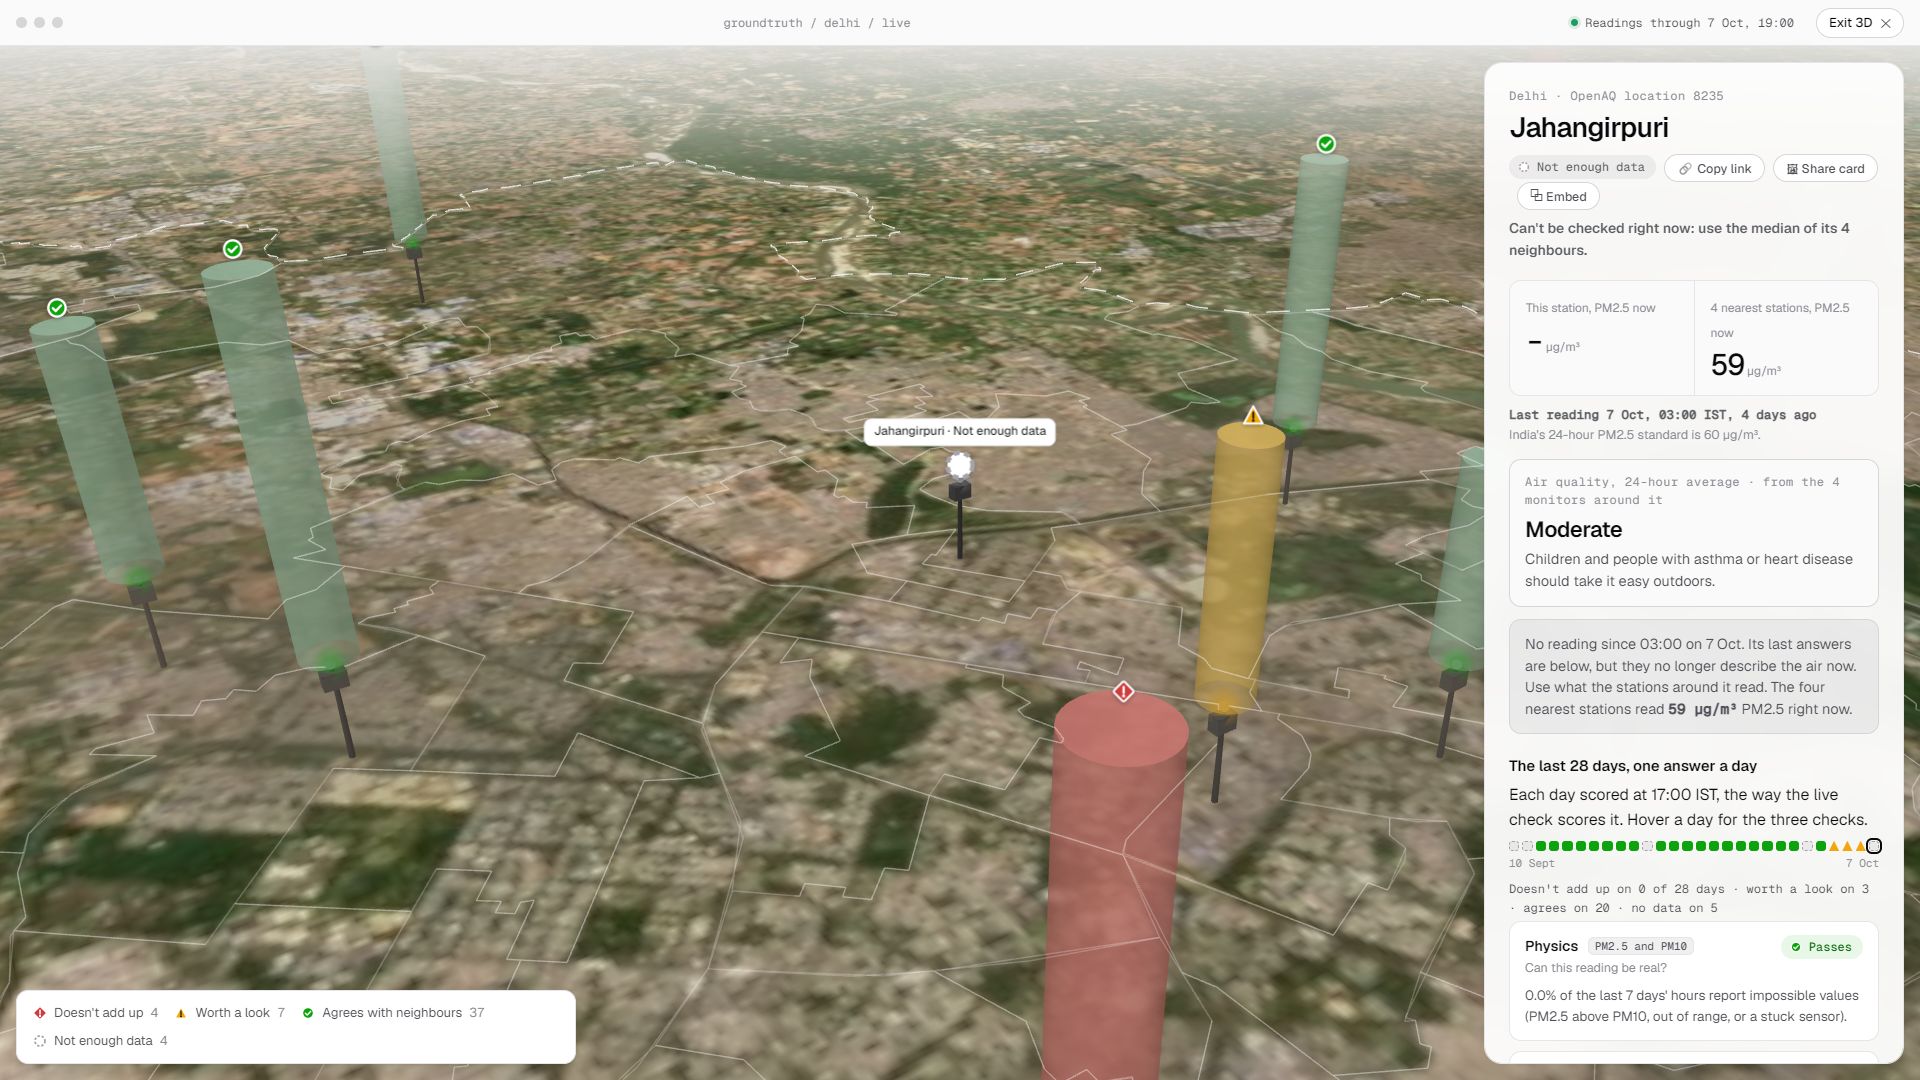
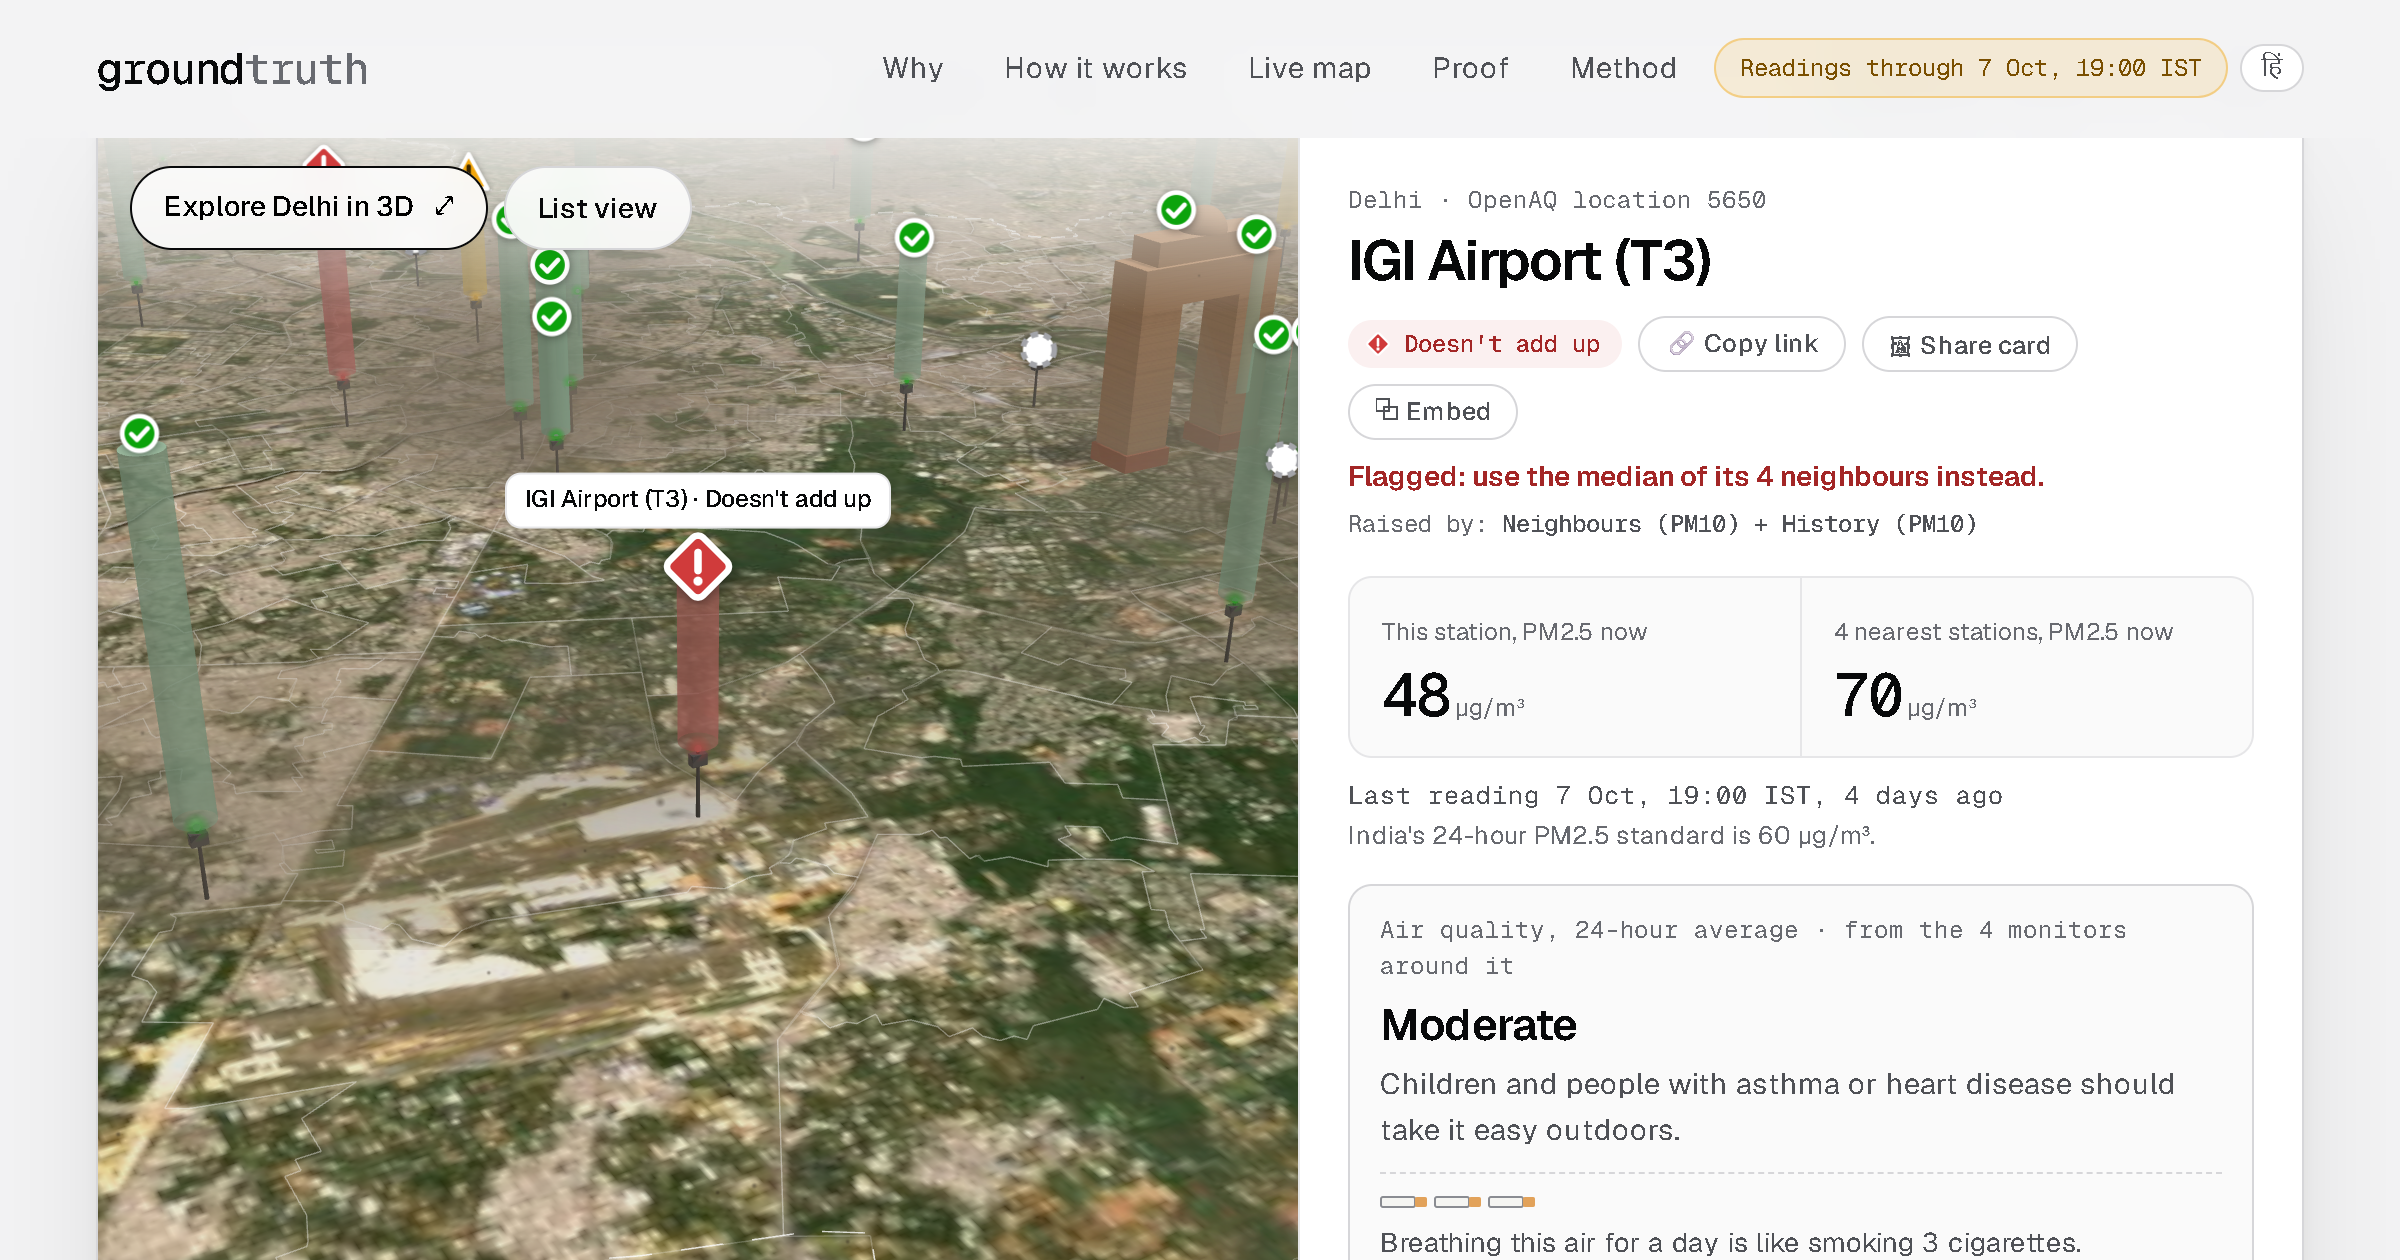
Blog pictures from today's live data: the home page, IGI Airport's panel, Fix these first
The old 3D close-up was flagged by Builder Center's image filter, and the
panel picture was a copy of it showing a monitor that has since gone silent.
blog-panel-list.png is a list-view backup with no 3D.

diff --git a/docs/BLOG.md b/docs/BLOG.md
@@ -18,7 +18,7 @@ They didn't stand out. Anand Vihar ranked 6th and Jahangirpuri 13th of 38. Anand
 
 That changed the product. We stopped trying to detect spraying, and built something that finds monitors whose numbers don't add up and shows the evidence.
 
-![Delhi in 3D: each mast is a monitor, its column as tall as its PM2.5 reading, the smog thicker where the air is worse](img/blog-3d.png)
+![Ground Truth's home page: the question, the plain answer, and an honest note when the public feed runs behind](img/blog-hero.png)
 
 ## Three questions, every hour
 
@@ -28,6 +28,8 @@ That changed the product. We stopped trying to detect spraying, and built someth
 
 When a monitor is in doubt, the site shows what its four neighbours read right now. That is the number a principal can actually use.
 
+![IGI Airport today: it doesn't add up, so its panel says to use what its four neighbours read, 70 µg/m³ against its own 48, with the day's air in cigarettes and the evidence below](img/blog-panel.png)
+
 Then we asked what each reader does next, and built for that:
 
 - **A principal** sees *when the air is cleanest*: the last week's PM2.5 by hour of day, from the reading you can trust, with the cleanest three hours between 7:00 and 19:00 marked. Delhi's air is usually cleanest mid-afternoon, when it mixes highest, but each monitor gets its own measured week, not a textbook curve.
@@ -35,7 +37,7 @@ Then we asked what each reader does next, and built for that:
 - **The people who run the monitors** get a list called *Fix these first*: the monitors that didn't add up on the most of the last 28 days, each with its month as a strip and the check that caught it most often. It turns the checks into work orders.
 - **Everyone** can read it in Hindi: one button switches the whole site, including each monitor's answer and its evidence, and a test fails if any phrase is left in English.
 
-![A flagged monitor's panel: the answer, what the four nearest monitors read, and the three checks with their evidence](img/blog-panel.png)
+![Fix these first: the monitors that didn't add up on the most of the last 28 days, each with its month as a strip and the check that caught it](img/blog-fixfirst.png)
 
 We also scored every day of October and November 2025 the way the live site would have. On an ordinary day, about 21 in 100 judged monitors got "doesn't add up" and 27 in 100 "worth a look". Most flags came from the physics check, 7.6 a day: readings that cannot be real, whatever the air is doing. The neighbours and history checks raised 2.9 flags a day between them.
 
